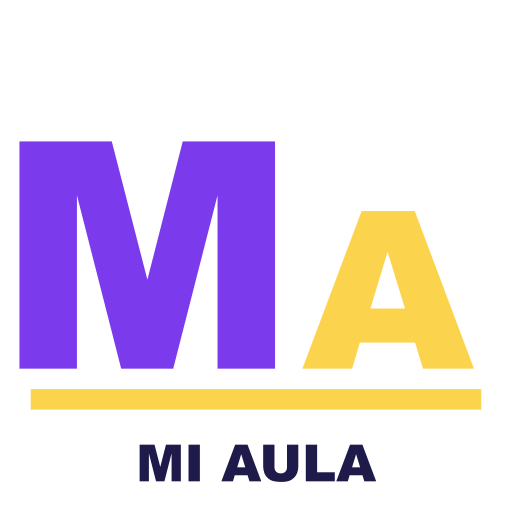
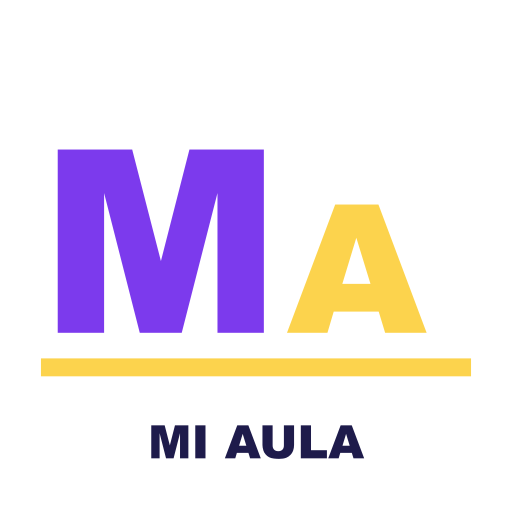
Ajustar tamaño ícono PWA: MA más chico para que todo sea visible

Changed region(s): [[0.0312, 0.25, 0.9375, 0.9688]]

diff --git a/gen-icon.js b/gen-icon.js
@@ -9,29 +9,29 @@ function genIcon(size) {
   ctx.fillStyle = '#FFFFFF';
   ctx.fillRect(0, 0, size, size);
 
-  // M violeta — ocupa casi todo el ancho
+  // M violeta
   ctx.fillStyle = '#7C3AED';
-  ctx.font = `900 ${size * 0.62}px Arial`;
+  ctx.font = `900 ${size * 0.50}px Arial`;
   ctx.textAlign = 'right';
   ctx.textBaseline = 'alphabetic';
-  ctx.fillText('M', size * 0.58, size * 0.72);
+  ctx.fillText('M', size * 0.55, size * 0.65);
 
   // A dorada
   ctx.fillStyle = '#FCD34D';
-  ctx.font = `900 ${size * 0.43}px Arial`;
+  ctx.font = `900 ${size * 0.35}px Arial`;
   ctx.textAlign = 'left';
-  ctx.fillText('A', size * 0.59, size * 0.72);
+  ctx.fillText('A', size * 0.56, size * 0.65);
 
   // Línea dorada
   ctx.fillStyle = '#FCD34D';
-  ctx.fillRect(size * 0.06, size * 0.76, size * 0.88, size * 0.04);
+  ctx.fillRect(size * 0.08, size * 0.70, size * 0.84, size * 0.035);
 
   // MI AULA
   ctx.fillStyle = '#1E1B4B';
-  ctx.font = `900 ${size * 0.1}px Arial`;
+  ctx.font = `900 ${size * 0.09}px Arial`;
   ctx.textAlign = 'center';
   ctx.textBaseline = 'middle';
-  ctx.fillText('MI AULA', size * 0.5, size * 0.9);
+  ctx.fillText('MI AULA', size * 0.5, size * 0.86);
 
   return c.toBuffer('image/png');
 }